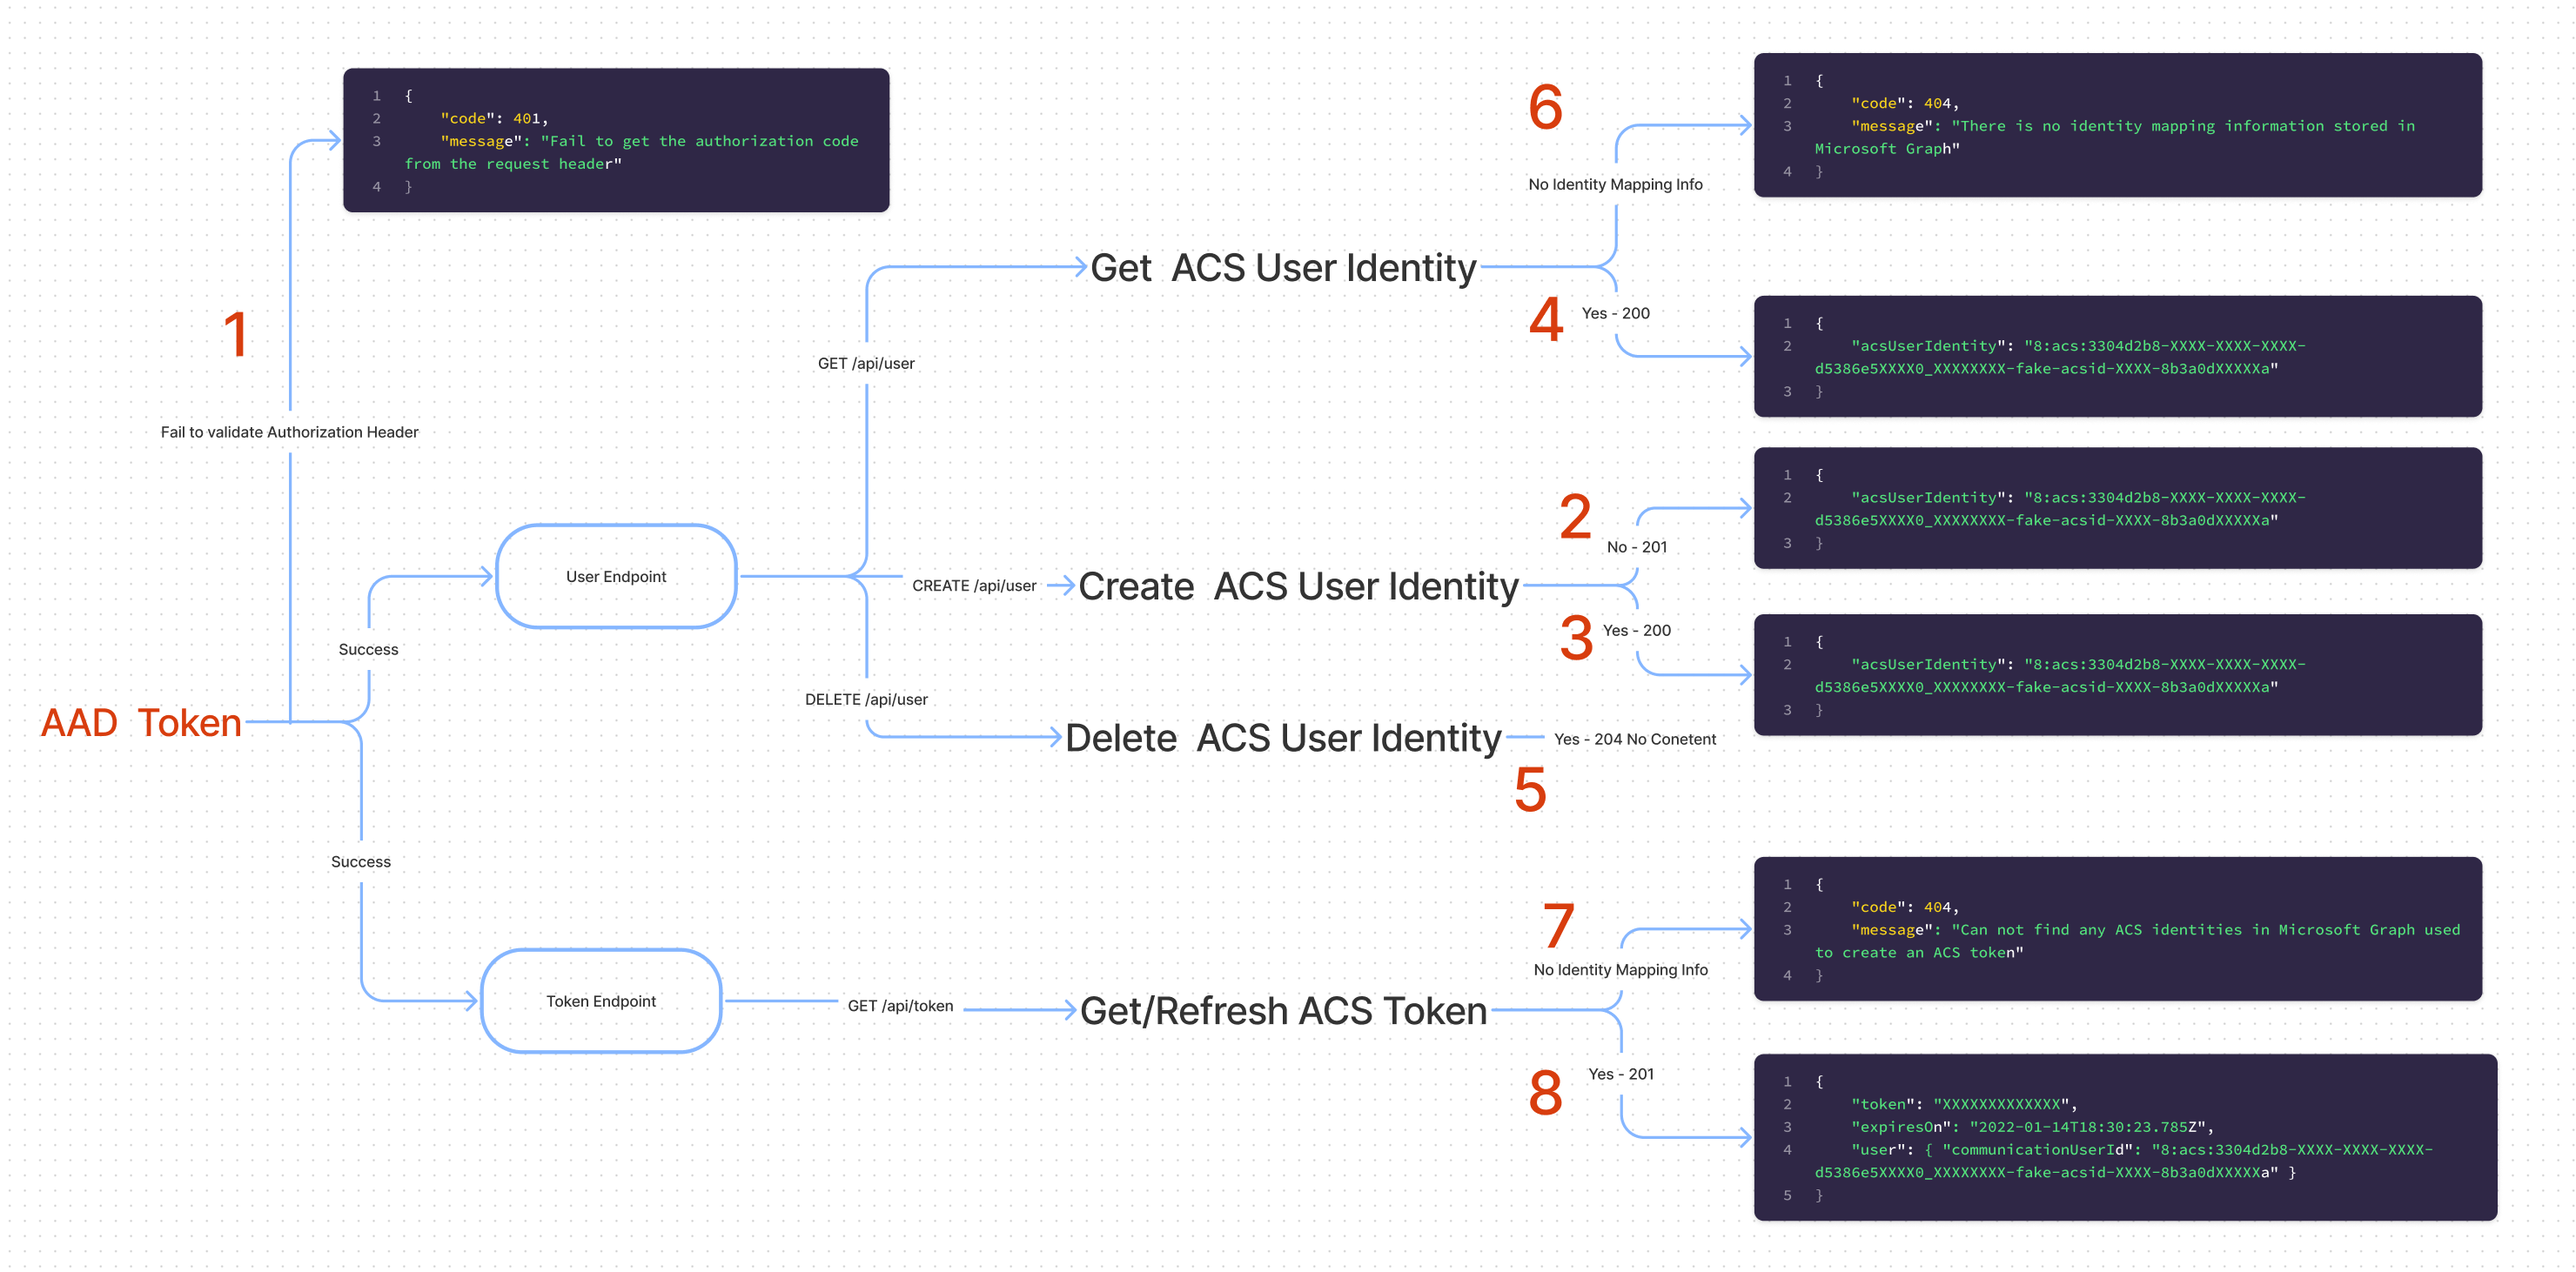
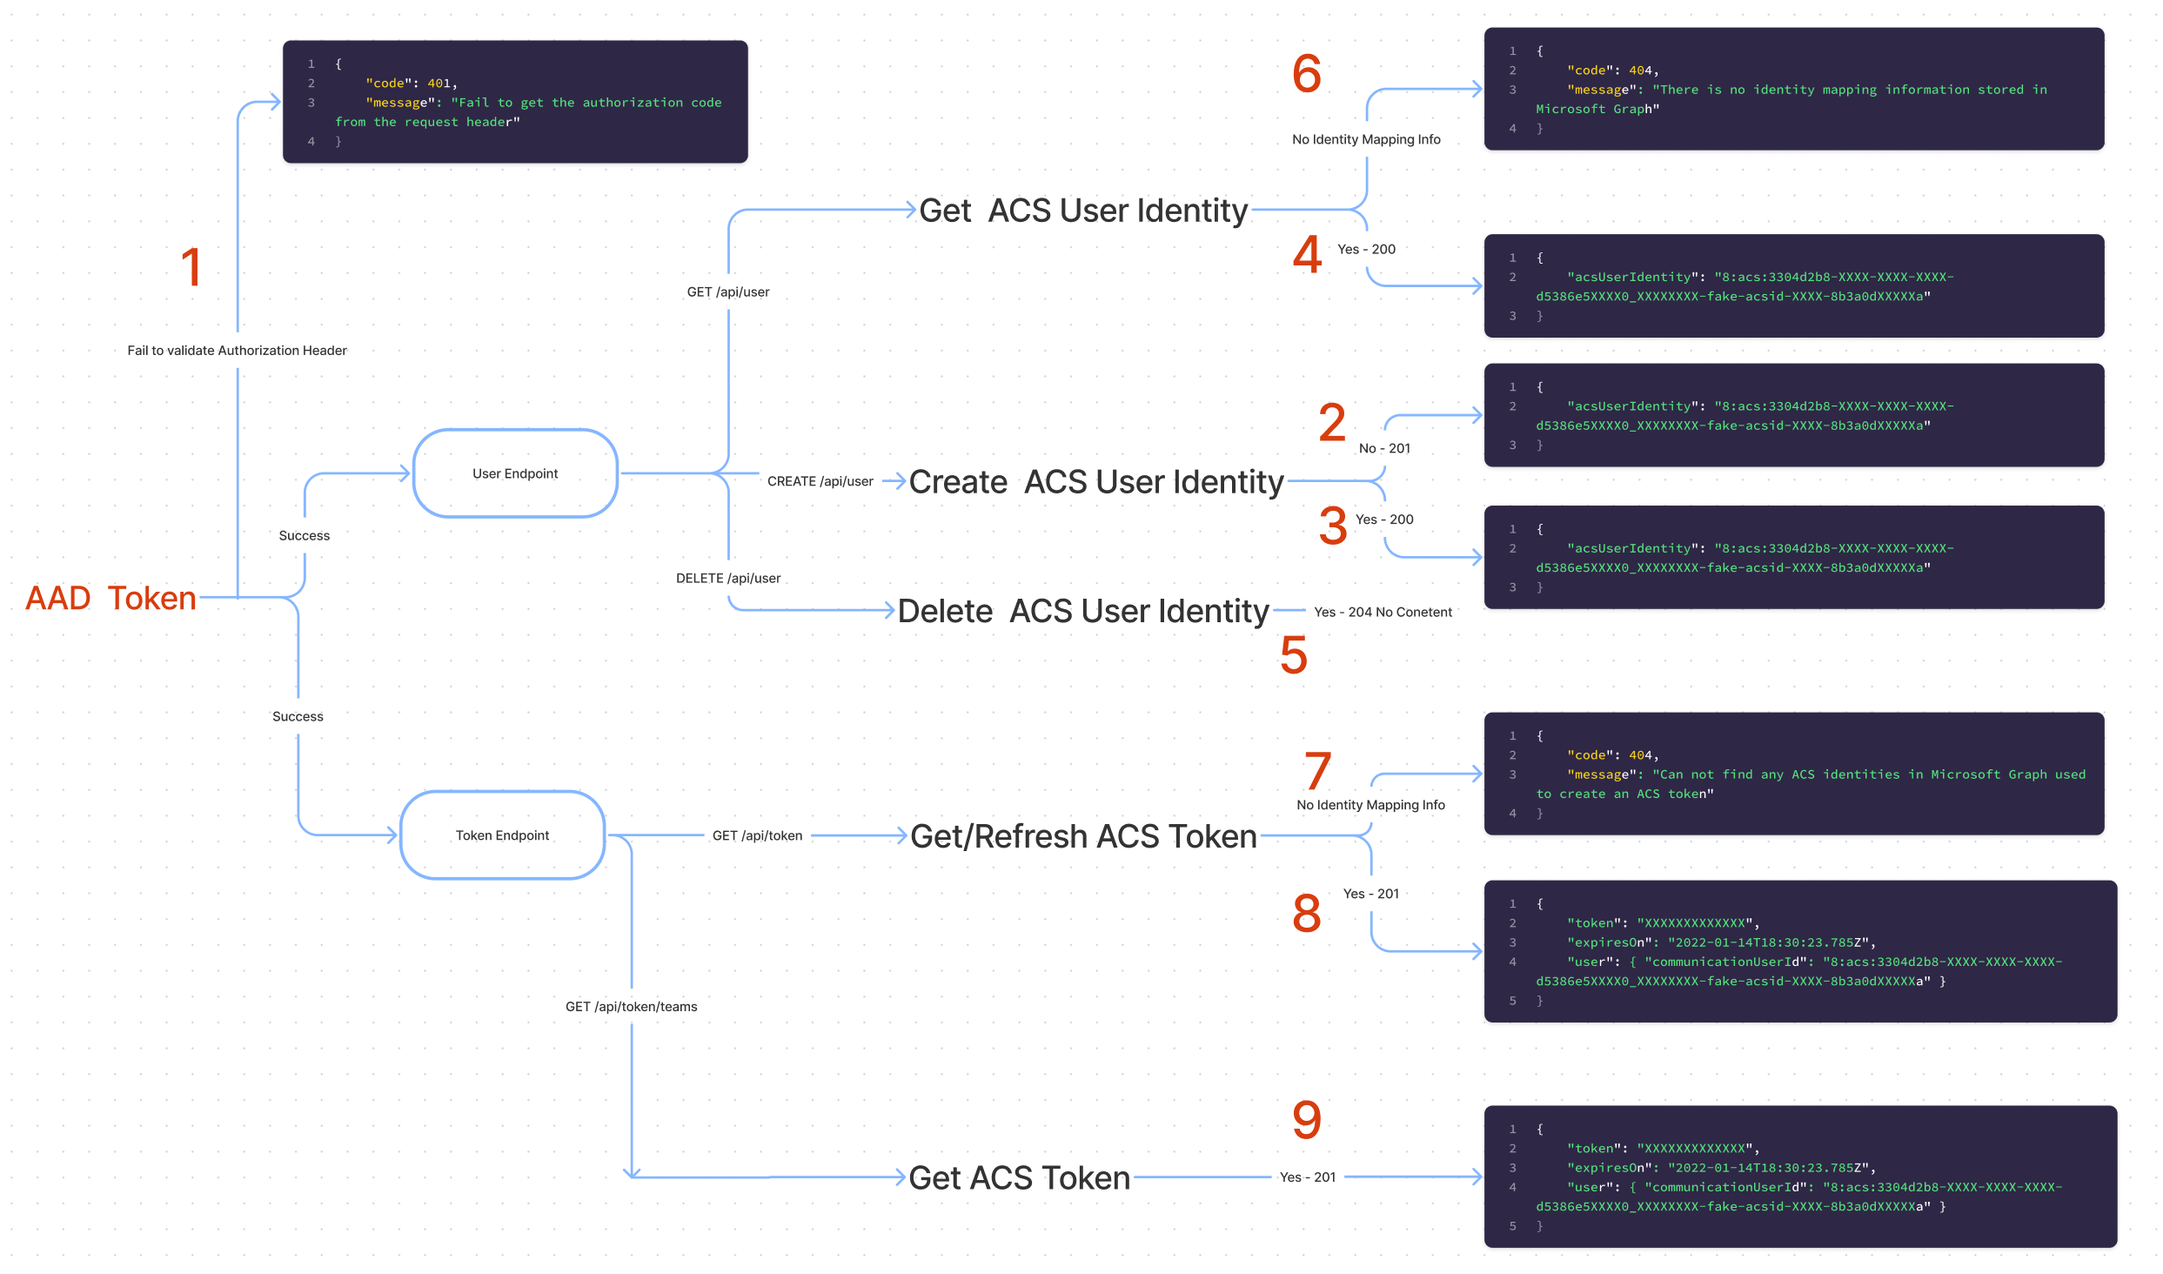
Rename Token Exchange endpoint

diff --git a/src/routes/tokenRouter.ts b/src/routes/tokenRouter.ts
@@ -15,7 +15,7 @@ export const tokenRouter = () => {
   // 1. Get an ACS token or refresh an ACS token
   router.get('/', validateAuthorizedHeader, getACSToken);
   // 2. Get an ACS token for a Teams user
-  router.get('/aad', validateAuthorizedHeader, exchangeAADToken);
+  router.get('/teams', validateAuthorizedHeader, exchangeAADToken);
 
   return router;
 };
